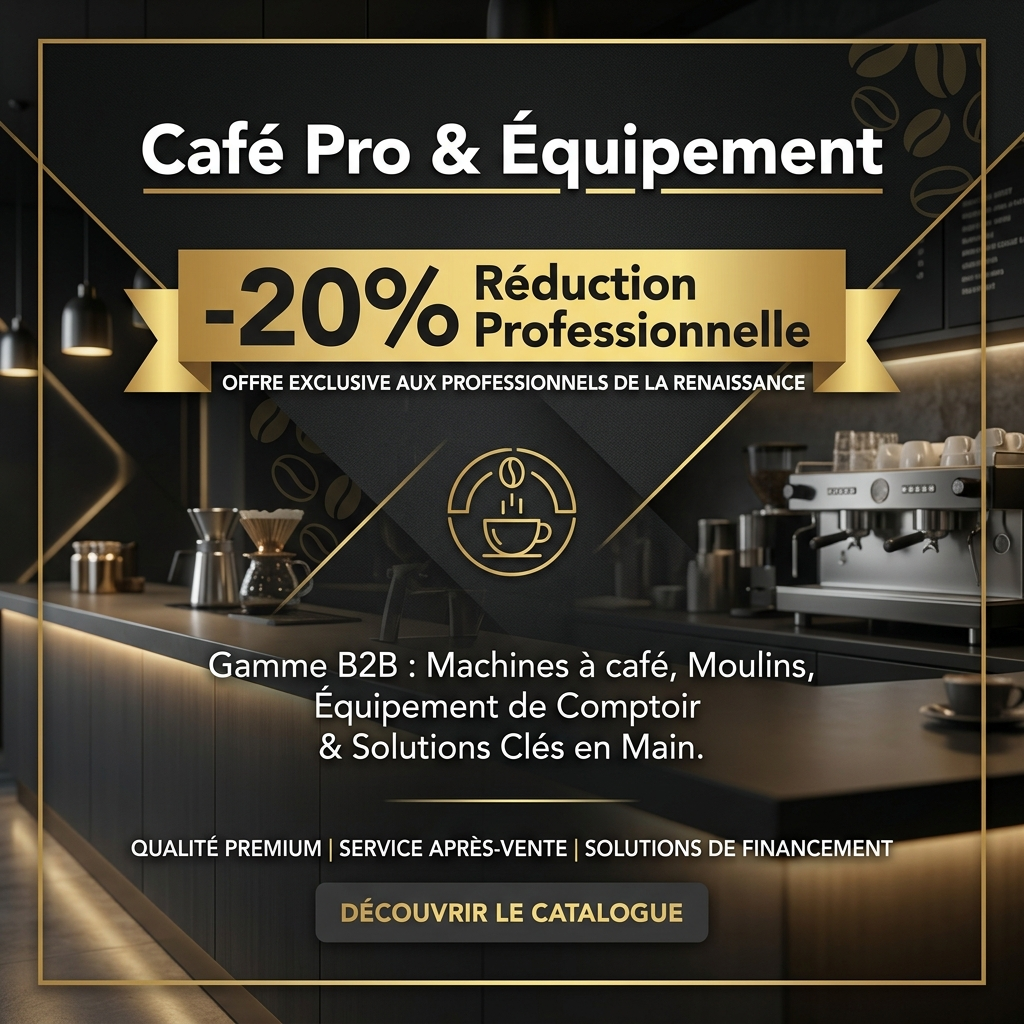
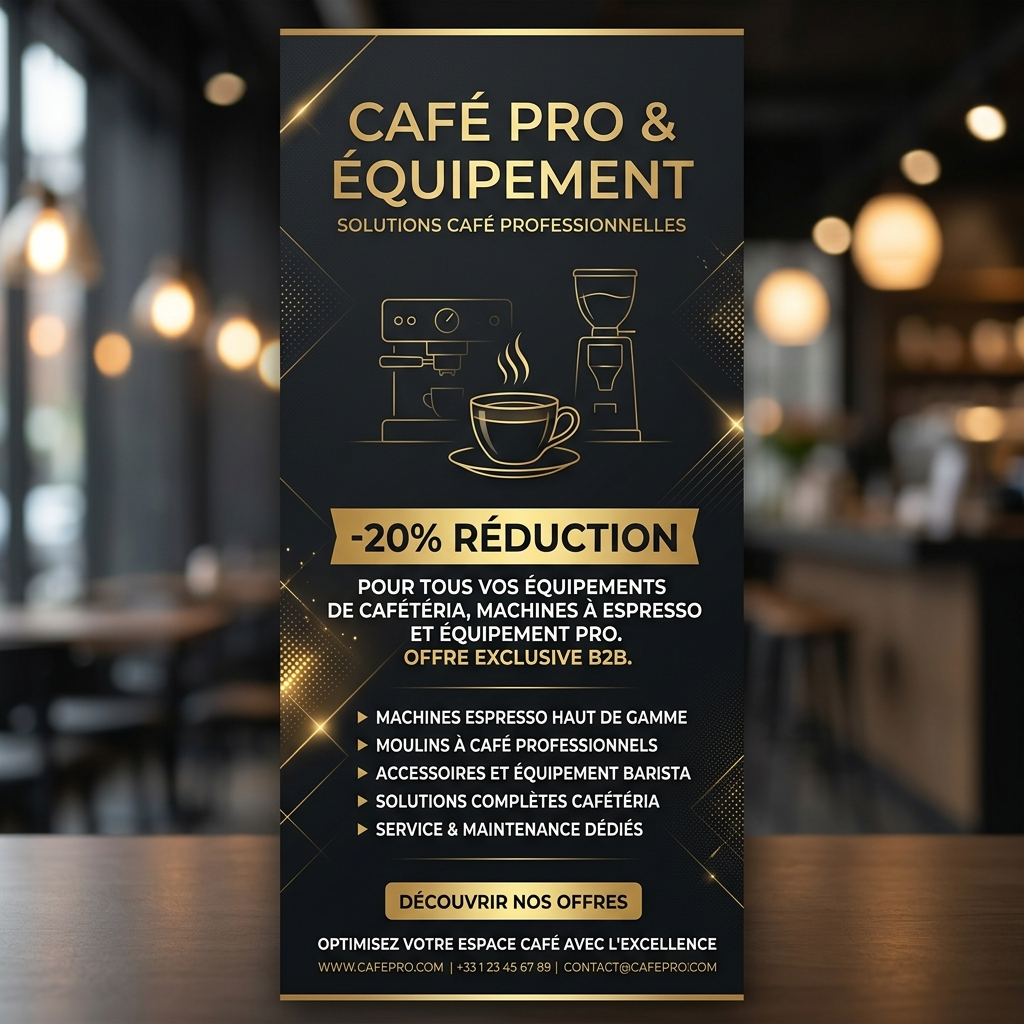
Auto-deploy: sync 202605192202

diff --git a/apps/admin-dashboard/app/marketplace/MarketplaceClient.tsx b/apps/admin-dashboard/app/marketplace/MarketplaceClient.tsx
@@ -281,12 +281,14 @@ export default function MarketplaceClient({ initialData, store, blogPosts = [], 
             </div>
 
             <div className="mkt-search-layout">
-               {/* Sidebar Filters */}
-               <aside className="mkt-search-sidebar">
-                  <div style={{ display: 'flex', alignItems: 'center', gap: '10px', marginBottom: '24px', color: '#111827' }}>
-                    <Menu size={20} />
-                    <h2 style={{ fontSize: '18px', fontWeight: 900 }}>Filtres</h2>
-                  </div>
+               {/* Left Column Container */}
+               <div>
+                 {/* Sidebar Filters */}
+                 <aside className="mkt-search-sidebar" style={{ position: 'relative', top: 'auto', marginBottom: '24px' }}>
+                    <div style={{ display: 'flex', alignItems: 'center', gap: '10px', marginBottom: '24px', color: '#111827' }}>
+                      <Menu size={20} />
+                      <h2 style={{ fontSize: '18px', fontWeight: 900 }}>Filtres</h2>
+                    </div>
 
                   {/* Distance Filter */}
                   <div style={{ marginBottom: '32px' }}>
@@ -399,17 +401,20 @@ export default function MarketplaceClient({ initialData, store, blogPosts = [], 
                       setTunisiaOnly(false); 
                       setBioOnly(false); 
                     }}
-                    style={{ width: '100%', padding: '12px', borderRadius: '10px', border: '1px solid #E5E7EB', background: 'transparent', color: '#111827', fontWeight: 800, fontSize: '13px', cursor: 'pointer', marginBottom: '24px' }}
+                    style={{ width: '100%', padding: '12px', borderRadius: '10px', border: '1px solid #E5E7EB', background: 'transparent', color: '#111827', fontWeight: 800, fontSize: '13px', cursor: 'pointer' }}
                   >
                     Réinitialiser
                   </button>
+                 </aside>
 
-                  {/* Sidebar Ad Banner */}
-                  <Link href={sidebarAd.buttonLink || '#'} style={{ display: 'block', borderRadius: '16px', overflow: 'hidden', border: '1px solid #E5E7EB', boxShadow: '0 4px 6px -1px rgba(0,0,0,0.05)', position: 'relative', textDecoration: 'none' }}>
-                    <img src={sidebarAd.imageUrl} alt={sidebarAd.title} style={{ width: '100%', height: 'auto', display: 'block' }} />
-                    <div style={{ position: 'absolute', top: '8px', right: '8px', background: 'rgba(0,0,0,0.5)', backdropFilter: 'blur(4px)', color: '#fff', fontSize: '9px', fontWeight: 800, padding: '2px 6px', borderRadius: '4px', letterSpacing: '0.05em' }}>PUB</div>
-                  </Link>
-               </aside>
+                 {/* Detached Sidebar Ad Banner (Sticky) */}
+                 <div style={{ position: 'sticky', top: '100px', paddingBottom: '24px' }}>
+                   <Link href={sidebarAd.buttonLink || '#'} style={{ display: 'block', borderRadius: '16px', overflow: 'hidden', border: '1px solid #E5E7EB', boxShadow: '0 4px 6px -1px rgba(0,0,0,0.05)', position: 'relative', textDecoration: 'none' }}>
+                     <img src={sidebarAd.imageUrl} alt={sidebarAd.title} style={{ width: '100%', height: 'auto', display: 'block' }} />
+                     <div style={{ position: 'absolute', top: '8px', right: '8px', background: 'rgba(0,0,0,0.5)', backdropFilter: 'blur(4px)', color: '#fff', fontSize: '9px', fontWeight: 800, padding: '2px 6px', borderRadius: '4px', letterSpacing: '0.05em' }}>PUB</div>
+                   </Link>
+                 </div>
+               </div>
 
                {/* Results Area */}
                <section>
